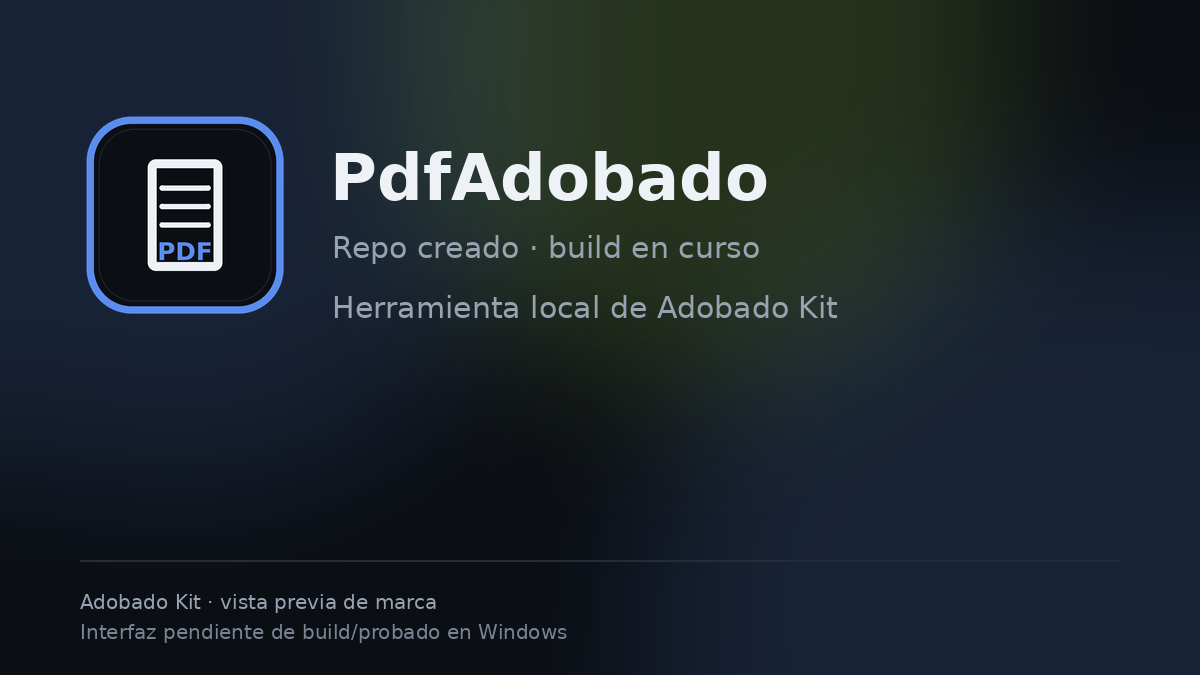
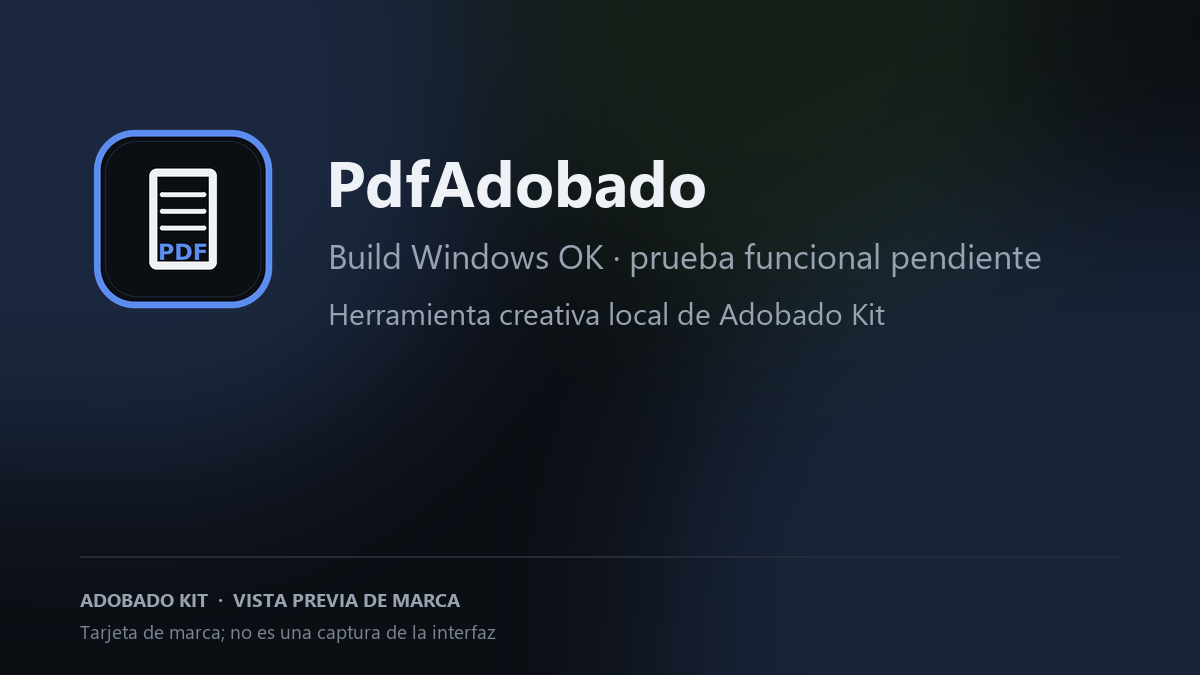
docs: update status and brand assets

diff --git a/README.md b/README.md
@@ -6,21 +6,27 @@
 
 [![License](https://img.shields.io/badge/license-MIT%20OR%20Apache--2.0-6cb6ff)](LICENSE-APACHE)
 [![Rust](https://img.shields.io/badge/Rust-1.95%2B-ff7a59)](Cargo.toml)
-[![Status](https://img.shields.io/badge/status-early%20alpha-d69e2e)](#estado)
-[![Stars](https://img.shields.io/github/stars/smouj/PdfAdobado?style=flat&color=FF5C5C)](https://github.com/smouj/PdfAdobado/stargazers)
+[![Windows build](https://github.com/smouj/PdfAdobado/actions/workflows/windows-build.yml/badge.svg?branch=main)](https://github.com/smouj/PdfAdobado/actions/workflows/windows-build.yml)
+[![Estado](https://img.shields.io/badge/status-instalaci%C3%B3n%20pendiente-ff7a59)](#estado)
+[![Estrellas](https://img.shields.io/github/stars/smouj/PdfAdobado?style=flat&color=B8F34A)](https://github.com/smouj/PdfAdobado/stargazers)
 [![Adobado Kit](https://img.shields.io/badge/Adobado%20Kit-hub-b8f34a)](https://github.com/smouj/Adobado_Kit)
 
-> **Alpha temprana.** Codigo importado y rebrandeado desde PdfCraft. Build de Windows y prueba de edicion pendientes. No se presenta como app disponible ni como sustituto profesional.
+> **Build de Windows correcta (20/10/2026).** Falta instalar e iniciar la app manualmente. La prueba de abrir, modificar y exportar un archivo real también está pendiente. La imagen siguiente es una tarjeta de marca, no una captura de la interfaz.
 >
 > Proyecto independiente. No afiliado a ArtCraft ni a Adobe.
 
-![PdfAdobado](docs/preview.png)
+![PdfAdobado — tarjeta de marca; interfaz pendiente](docs/preview.png)
+
+<sub>Tarjeta de marca; no es una captura de la interfaz.</sub>
 
 ## Estado
 
-- Codigo fuente: importado desde pdfcraft en el commit ec0a965074f376a5bf610435948e4e5184bf3299.
-- Rebranding visible: nombre, enlaces, README, avisos y documentacion.
-- Pendiente: compilar en Windows, probar abrir/editar/exportar y publicar release.
+- **Build de Windows:** correcto en GitHub Actions; consulta el [workflow actual](https://github.com/smouj/PdfAdobado/actions/workflows/windows-build.yml).
+- **Prueba manual:** instalación e inicio pendientes.
+- **Flujo funcional:** abrir, modificar y exportar un archivo real sigue pendiente.
+- **Disponibilidad:** alpha; todavía no se declara lista para uso general.
+- **Release pública:** todavía no existe. No se publica un binario hasta completar las pruebas.
+- **Commit de origen:** ec0a965074f376a5bf610435948e4e5184bf3299.
 
 ## Build
 

diff --git a/docs/ADOBADO.md b/docs/ADOBADO.md
@@ -15,12 +15,13 @@
 - Se retiran los logos y assets de marca de ArtCraft incluidos en docs/brand.
 - No se han cambiado el motor, los formatos ni las funciones de edicion.
 
-## Pendiente
+## Estado de validación — 20/10/2026
 
-- Rebranding de iconos de aplicacion.
-- Build de Windows y prueba de abrir, editar y exportar.
-- Release solo cuando exista un binario probado.
-
+- **Build de Windows:** correcto en GitHub Actions ([workflow](https://github.com/smouj/PdfAdobado/actions/workflows/windows-build.yml)).
+- **Prueba manual:** instalación e inicio pendientes.
+- **Uso con archivos reales:** abrir, modificar y exportar sigue pendiente.
+- **Distribución:** todavía no hay una release pública; no se publicará un binario sin completar las pruebas.
+- **Origen:** ec0a965074f376a5bf610435948e4e5184bf3299.
 ## Marcas
 
 ArtCraft, PdfCraft y sus logos son marcas del ArtCraft Team y no estan cubiertos por la licencia de codigo. Adobe y sus productos son marcas de Adobe Inc. Este proyecto no esta afiliado a Adobe ni a ArtCraft.

diff --git a/CHANGELOG.md b/CHANGELOG.md
@@ -1,5 +1,13 @@
 # Changelog - PdfAdobado
 
+## [Unreleased]
+
+### Documentado
+- Estado de compilación y validación manual de Windows actualizado.
+- Captura o tarjeta de marca identificada correctamente; se aclara que la prueba con archivos reales sigue pendiente.
+- Se confirma que todavía no existe una release pública.
+
+
 ## 0.1.0-alpha.1 - 2026-10-20
 
 ### Anadido
